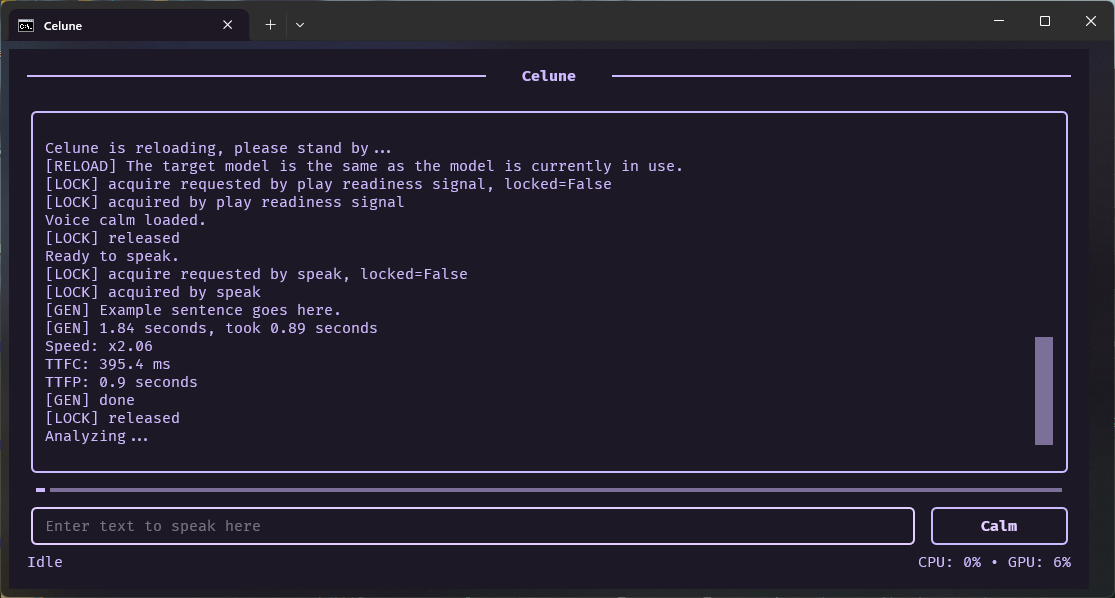
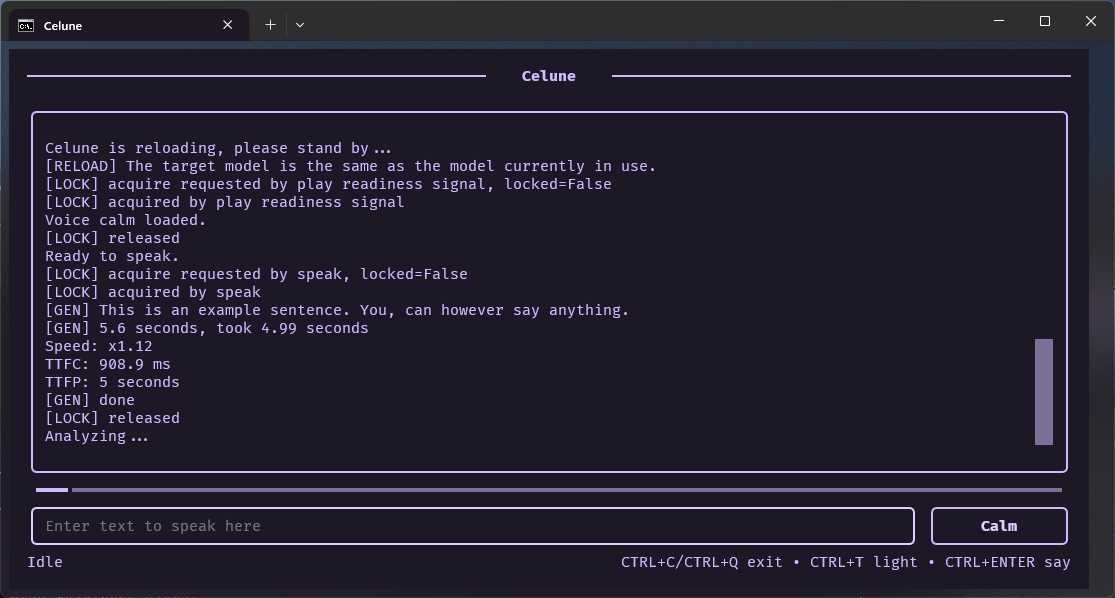
feat: allow seeds to be used in all backends

diff --git a/celune/backends/base.py b/celune/backends/base.py
@@ -5,12 +5,15 @@ from __future__ import annotations
 
 import os
 import glob
+import random
+import secrets
 import hashlib
 from abc import ABC, abstractmethod
 from typing import Any, Callable, Optional
 from collections.abc import Iterator
 from pathlib import Path
 
+import torch
 import numpy as np
 import numpy.typing as npt
 from huggingface_hub import snapshot_download
@@ -124,6 +127,19 @@ class CeluneBackend(ABC):
                     f"Checksum not found for '{name}', skipping checksum verification.",
                     "warning",
                 )
+
+    def _apply_seed(self) -> None:
+        """Seed all generation RNGs for the next backend operation."""
+        if self.random_seed:
+            self.current_seed = secrets.randbits(32)
+
+        if self.current_seed is None:
+            return
+
+        random.seed(self.current_seed)
+        np.random.seed(self.current_seed)
+        torch.cuda.manual_seed_all(self.current_seed)
+        torch.manual_seed(self.current_seed)
 
     @staticmethod
     @abstractmethod

diff --git a/celune/backends/voxcpm2.py b/celune/backends/voxcpm2.py
@@ -4,8 +4,6 @@
 from __future__ import annotations
 
 import os
-import random
-import secrets
 import contextlib
 from typing import Callable, Optional
 from collections.abc import Iterator
@@ -83,21 +81,7 @@ class VoxCPM2(CeluneBackend):
         super().__init__(log=log)
         self.log = log
         self.optimize_enabled = False
-        self.random_seed = True
         self._validate_refs()
-
-    def _apply_seed(self) -> None:
-        """Seed all generation RNGs for the next backend operation."""
-        if self.random_seed:
-            self.current_seed = secrets.randbits(32)
-
-        if self.current_seed is None:
-            return
-
-        random.seed(self.current_seed)
-        np.random.seed(self.current_seed)
-        torch.cuda.manual_seed_all(self.current_seed)
-        torch.manual_seed(self.current_seed)
 
     @staticmethod
     @contextlib.contextmanager

diff --git a/celune/ui/commands.py b/celune/ui/commands.py
@@ -149,7 +149,7 @@ def process_command(ui: CeluneUI, command: str, args: list[str]) -> None:
             "/play <file> - Play a sound effect by path. Only WAV files are supported."
         )
         ui.safe_log(
-            "/seed [seed|random] - Set or clear the seed for speech outputs (VoxCPM2 only)."
+            "/seed [seed|random] - Set or clear the seed for speech outputs, affecting pronunciation and/or prosody."
         )
         ui.safe_log("/tutorial - Run Celune's tutorial.")
         ui.safe_log("/stop - Terminate ongoing speech.")

diff --git a/celune/backends/qwen3.py b/celune/backends/qwen3.py
@@ -212,6 +212,7 @@ class Qwen3(CeluneBackend):
             raise ValueError("expected text to say")
 
         kwargs.setdefault("max_new_tokens", self.max_new_tokens)
+        self._apply_seed()
 
         # if faster_qwen3_tts >= 0.2.5 use instructions, else remove this arg
         major, minor, patch = (int(num) for num in qwen3_ver.split("."))
